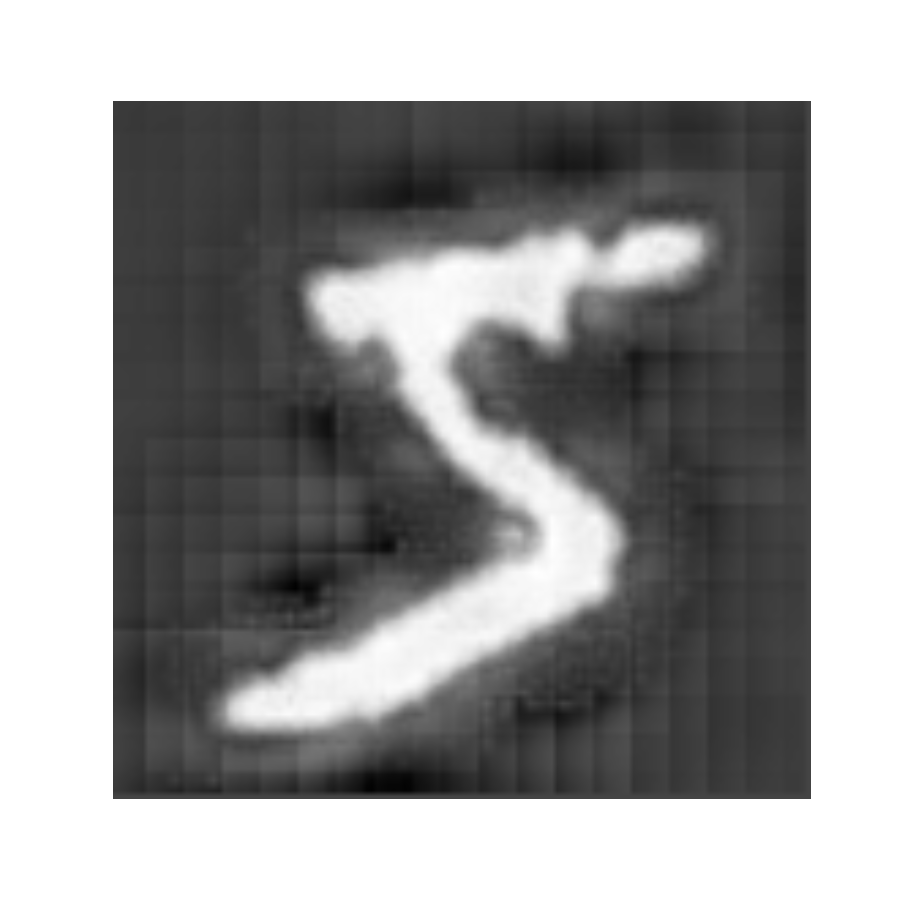
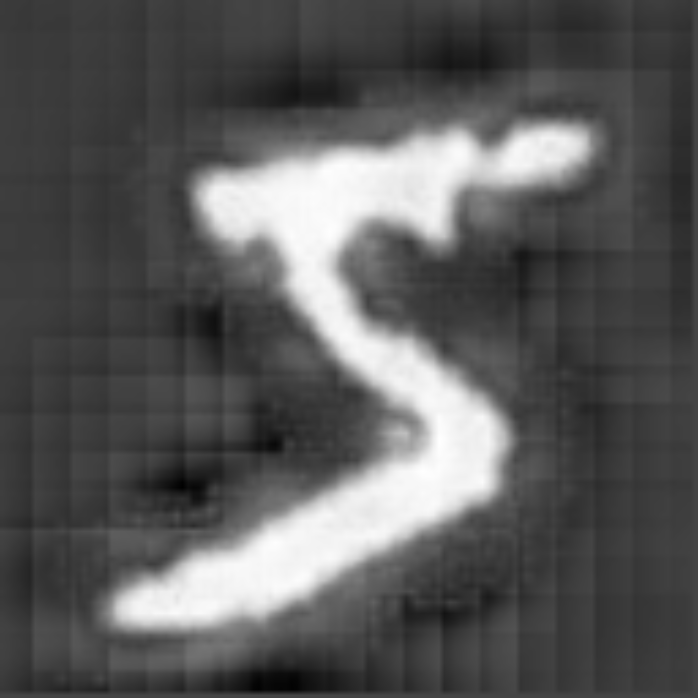
added reconstructed image 1

diff --git a/4-2-2_Rank-ordered_encoding.tex b/4-2-2_Rank-ordered_encoding.tex
@@ -78,6 +78,10 @@ is inversely proportional to a spike emission time (i.e. the higher the pixel va
     \label{pic-lena-P-ON}
     \includegraphics[width=0.15\textwidth]{filtered_focal_5_1_3}
   }
+  \subfloat[Reconstructed]{
+    \label{pic-lena-reconstructed}
+    \includegraphics[width=0.15\textwidth]{reconstructed_5_1}
+  }
   \caption{Results of simulating ganglion cells (convolved images are enhanced for better contrast)}
   \label{fig-convolution-results}
 \end{figure}
